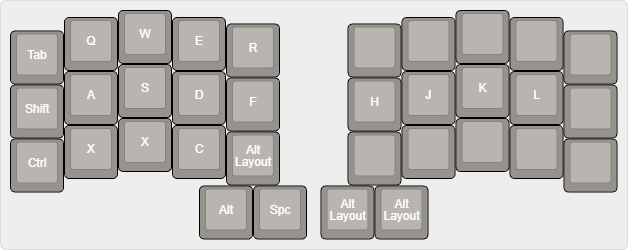
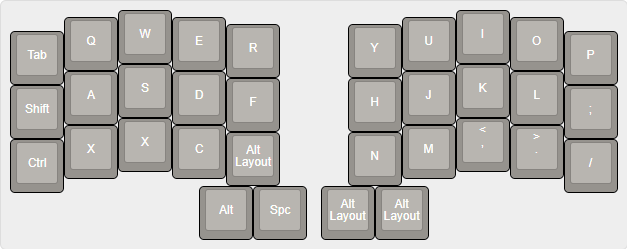
Update gaming layout to include mappings for the whole right hand side of the keyboard on the gaming layer

diff --git a/keyboards/ferris/keymaps/samuelsalam815/keymap.c b/keyboards/ferris/keymaps/samuelsalam815/keymap.c
@@ -13,7 +13,7 @@ const uint16_t PROGMEM keymaps[][MATRIX_ROWS][MATRIX_COLS] = {
 	[3] = LAYOUT_split_3x5_2(KC_NO, KC_7, KC_8, KC_9, KC_NO, KC_NO, KC_NO, KC_NO, KC_NO, KC_NO, KC_0, KC_1, KC_2, KC_3, KC_NO, KC_NO, KC_NO, KC_RCTL, KC_RALT, KC_RGUI, KC_NO, KC_4, KC_5, KC_6, KC_NO, KC_NO, KC_NO, KC_TRNS, KC_TRNS, KC_NO, KC_TRNS, KC_TRNS, KC_TRNS, KC_TRNS),
 	[4] = LAYOUT_split_3x5_2(LGUI(KC_TAB), KC_NO, CTL_TAB, ALT_TAB, KC_NO, KC_HOME, KC_PGDN, KC_PGUP, KC_END, KC_NO, KC_LGUI, KC_LALT, KC_LCTL, KC_TAB, KC_NO, KC_LEFT, KC_DOWN, KC_UP, KC_RGHT, KC_NO, KC_NO, KC_NO, KC_NO, KC_NO, TO(6), KC_INS, KC_PSCR, KC_SCRL, KC_PAUS, KC_NO, KC_TRNS, KC_TRNS, KC_TRNS, KC_TRNS),
 	[5] = LAYOUT_split_3x5_2(KC_NO, KC_F7, KC_F8, KC_F9, KC_F11, QK_BOOT, KC_NO, KC_NO, KC_NO, KC_NO, KC_NO, KC_F1, KC_F2, KC_F3, KC_F10, KC_NO, KC_NO, KC_RCTL, KC_RALT, KC_RGUI, LALT(KC_F4), KC_F4, KC_F5, KC_F6, KC_F12, KC_NO, KC_NO, KC_NO, KC_NO, KC_NO, KC_TRNS, KC_TRNS, KC_TRNS, KC_TRNS),
-	[6] = LAYOUT_split_3x5_2(KC_TAB, KC_Q, KC_W, KC_E, KC_R, KC_NO, KC_NO, KC_NO, KC_NO, KC_NO, KC_LSFT, KC_A, KC_S, KC_D, KC_F, KC_H, KC_J, KC_K, KC_L, KC_NO, KC_LCTL, KC_Z, KC_X, KC_C, TO(0), KC_NO, KC_NO, KC_NO, KC_NO, KC_NO, KC_LALT, KC_SPC, TO(0), TO(0))
+	[6] = LAYOUT_split_3x5_2(KC_TAB, KC_Q, KC_W, KC_E, KC_R, KC_Y, KC_U, KC_I, KC_O, KC_P, KC_LSFT, KC_A, KC_S, KC_D, KC_F, KC_H, KC_J, KC_K, KC_L, KC_SCLN, KC_LCTL, KC_Z, KC_X, KC_C, TO(0), KC_N, KC_M, KC_COMM, KC_DOT, KC_SLSH, KC_LALT, KC_SPC, TO(0), TO(0))
 };
 
 const uint16_t PROGMEM left_esc_combo[] = {LT(1,KC_J), RCTL_T(KC_K), COMBO_END};

diff --git a/keyboards/ferris/keymaps/samuelsalam815/readme.md b/keyboards/ferris/keymaps/samuelsalam815/readme.md
@@ -1,6 +1,6 @@
 # Configuration Workflow
 
-## Visually updating the keymap
+## Updating the keymap
 
 1. Go to the [online qmk configurator](https://config.qmk.fm/)
 2. Upload `intermediate_keymap.json`
@@ -12,6 +12,7 @@ Make sure to remove the `ferris_sweep_` prefix from the 'KEYMAP NAME', otherwise
 5. Convert the JSON file to a c file that can flash the keyboard
 
 run the following from the QMK MSYS terminal in the current directory
+
 ```bash
 qmk json2c intermediate_keymap.json -o temp.c
 ```
@@ -27,7 +28,8 @@ qmk flash -bl uf2-split-right -e CONVERT_TO=elite_pi
 ```
 
 The controller must be put into boot mode for this command to automatically flash it with the new firmware.
-- a typical key map has a dedicated key for this, check the visual aids 
+
+- a typical key map has a dedicated key for this, check the visual aids
 - If the current mapping doesn't have a reset key, then check firmware documentation for the magic boot mode.
 
 ## Updating the visual aids
@@ -35,15 +37,19 @@ The controller must be put into boot mode for this command to automatically flas
 The visual aids are created using <https://keyboard-layout-editor.com/>
 
 Prefer using the browser developer tools to screen capture the html node instead of the ui to export to png.
+
 - the UI button can produce images that do not appear as displayed in the browser
 
 The visual aids are `.png` files and their text format are named `*-visual.json`
+
 - `ferris-sweep-layout-visual.json` for the main key map
 - `ferris-sweep-gaming-layout-visual.json` for the gaming layer
 
 A separate aid exists for the gaming layer because the main key map visual aid would become too cluttered.
 
 # See Also
+
 Firmware Flashing documentation:
+
 - for [choc-only form factor](https://github.com/keyboard-magpie/qmk_firmware/tree/mbuk-ferris/keyboards/ferris/sweep_choc_mbuk)
 - for [choc/mx form factor](https://github.com/keyboard-magpie/qmk_firmware/tree/mbuk-ferris/keyboards/ferris/sweep_mx_mbuk)
